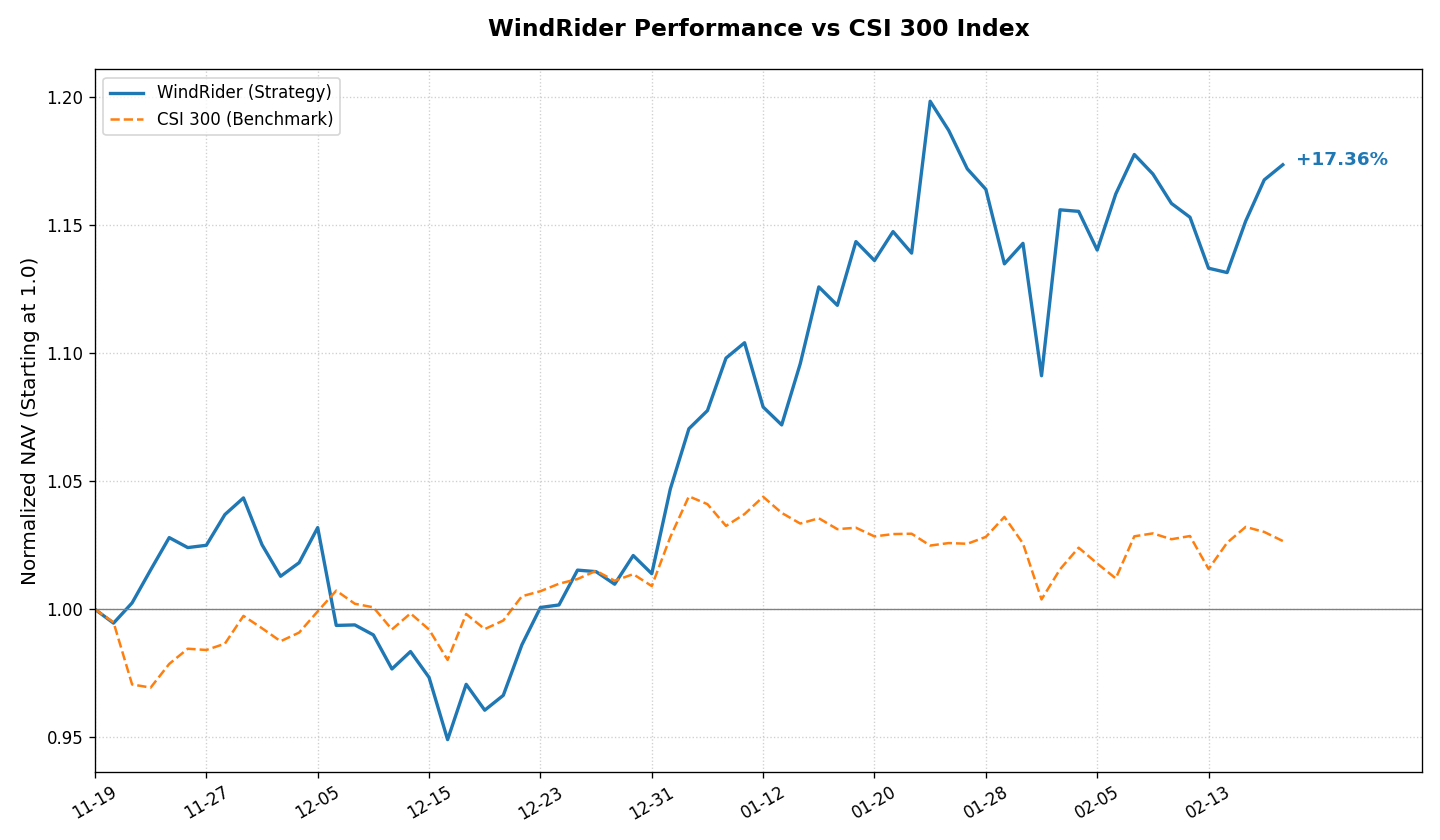
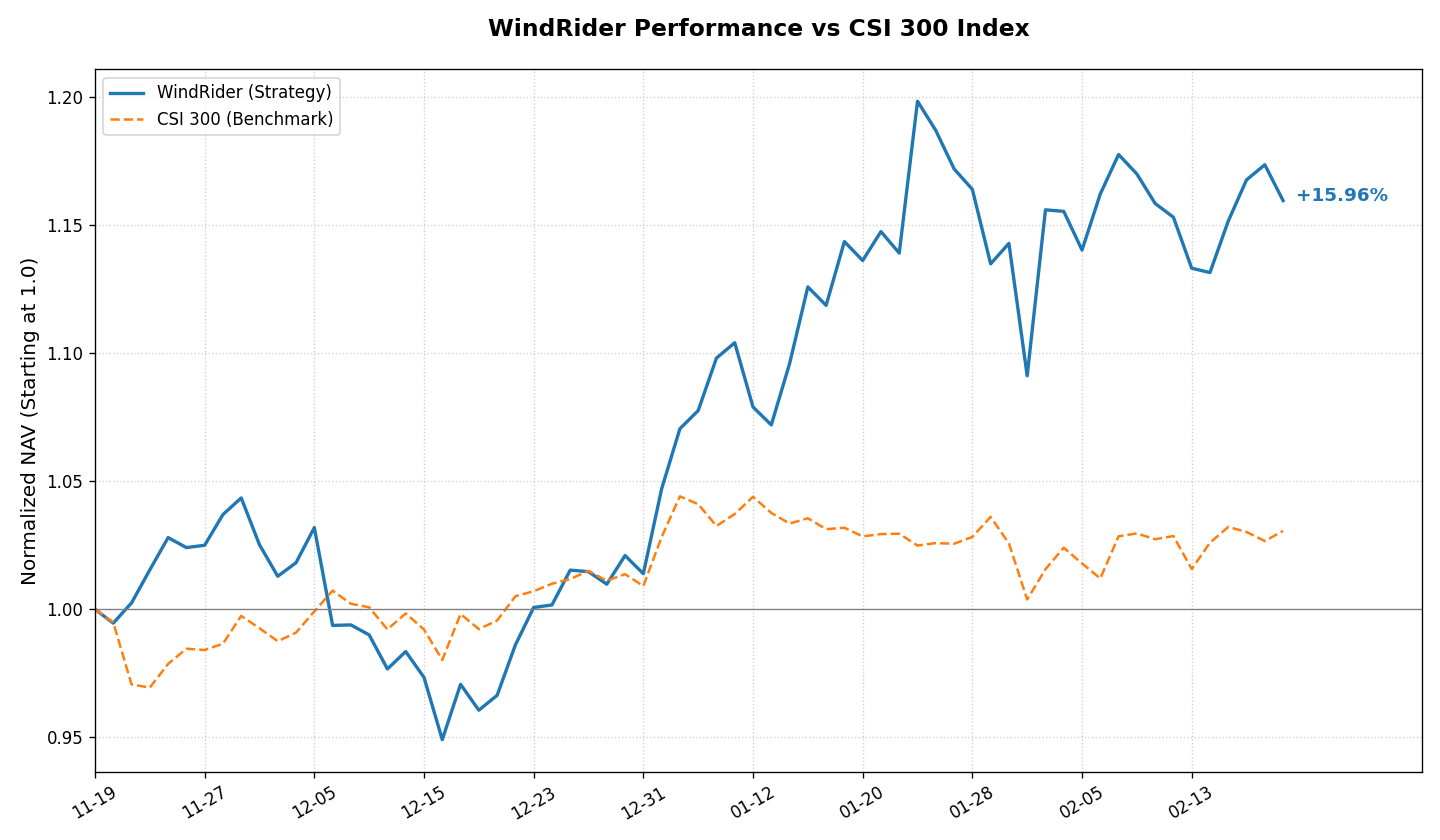
Updated Hugo site content

diff --git a/content/investment/position.md b/content/investment/position.md
@@ -1,10 +1,10 @@
 +++
-title = "持仓 Position"
+title = "如山-股票组合持仓 /// Position"
 summary = "主动管理型股票组合。对标沪深300指数，采用基本面选股策略。"
-date = 2026-02-27T15:10:04+08:00
-lastmod = 2026-02-27T15:10:04+08:00
+date = 2026-03-02T15:10:04+08:00
+lastmod = 2026-03-02T15:10:04+08:00
 draft = false
-description = "WindRider Stock Portfolio"
+description = "如山股票组合持仓"
 +++
 <style>
 .post-header, .article-header { display: none !important; }
@@ -12,30 +12,29 @@ description = "WindRider Stock Portfolio"
 
 ### 风舵股票组合 &nbsp;&nbsp;<span style="color: #E63946; font-weight: bold;">/</span><span style="color: #F1A73E; font-weight: bold;">/</span><span style="color: #000091; font-weight: bold;">/</span>&nbsp;&nbsp; 每日持仓
 WindRider Equity Portfolio <br>
-净值简报 <small>(截至: 2026-02-27)</small>
+净值简报 <small>(截至: 2026-03-02)</small>
 
 |  |  |
 | :--- | :--- |
 | **指数代码：** | WDR.EQ |
 | **成立日期：** | 2025-11-19 |
-| **最新净值：** | 1.1736 |
-| **今日涨跌：** | +0.51% |
+| **最新净值：** | 1.1596 |
+| **今日涨跌：** | -1.19% |
 
 ===========================
 
 | 核心表现 | |
 | :--- | :--- |
-| **累计收益：** | +17.36% |
-| **年化收益：** | +79.37% |
+| **累计收益：** | +15.96% |
+| **年化收益：** | +69.00% |
 | **最大回撤：** | -9.05% |
-| **基准点位：** | 4710.65 (CSI300) |
-| **策略状态：** | 已运行 101 天 |
+| **基准点位：** | 4728.67 (CSI300) |
+| **策略状态：** | 已运行 104 天 |
 
 ### 持仓明细
 | 股票名称 | 成本价 | 现价 | 盈亏 | 占比 |
 | :--- | :--- | :--- | :--- | :--- | :--- |
-| 先导智能 <small>300450</small> | 50.36 | 54.80 | <span style="color:#E63946">+8.82%</span> | 45.63% |
-| 新 和 成 <small>002001</small> | 24.84 | 31.50 | <span style="color:#E63946">+26.82%</span> | 52.46% |
+| 先导智能 <small>300450</small> | 52.17 | 53.28 | <span style="color:#E63946">+2.13%</span> | 95.42% |
 
 <br>
 
